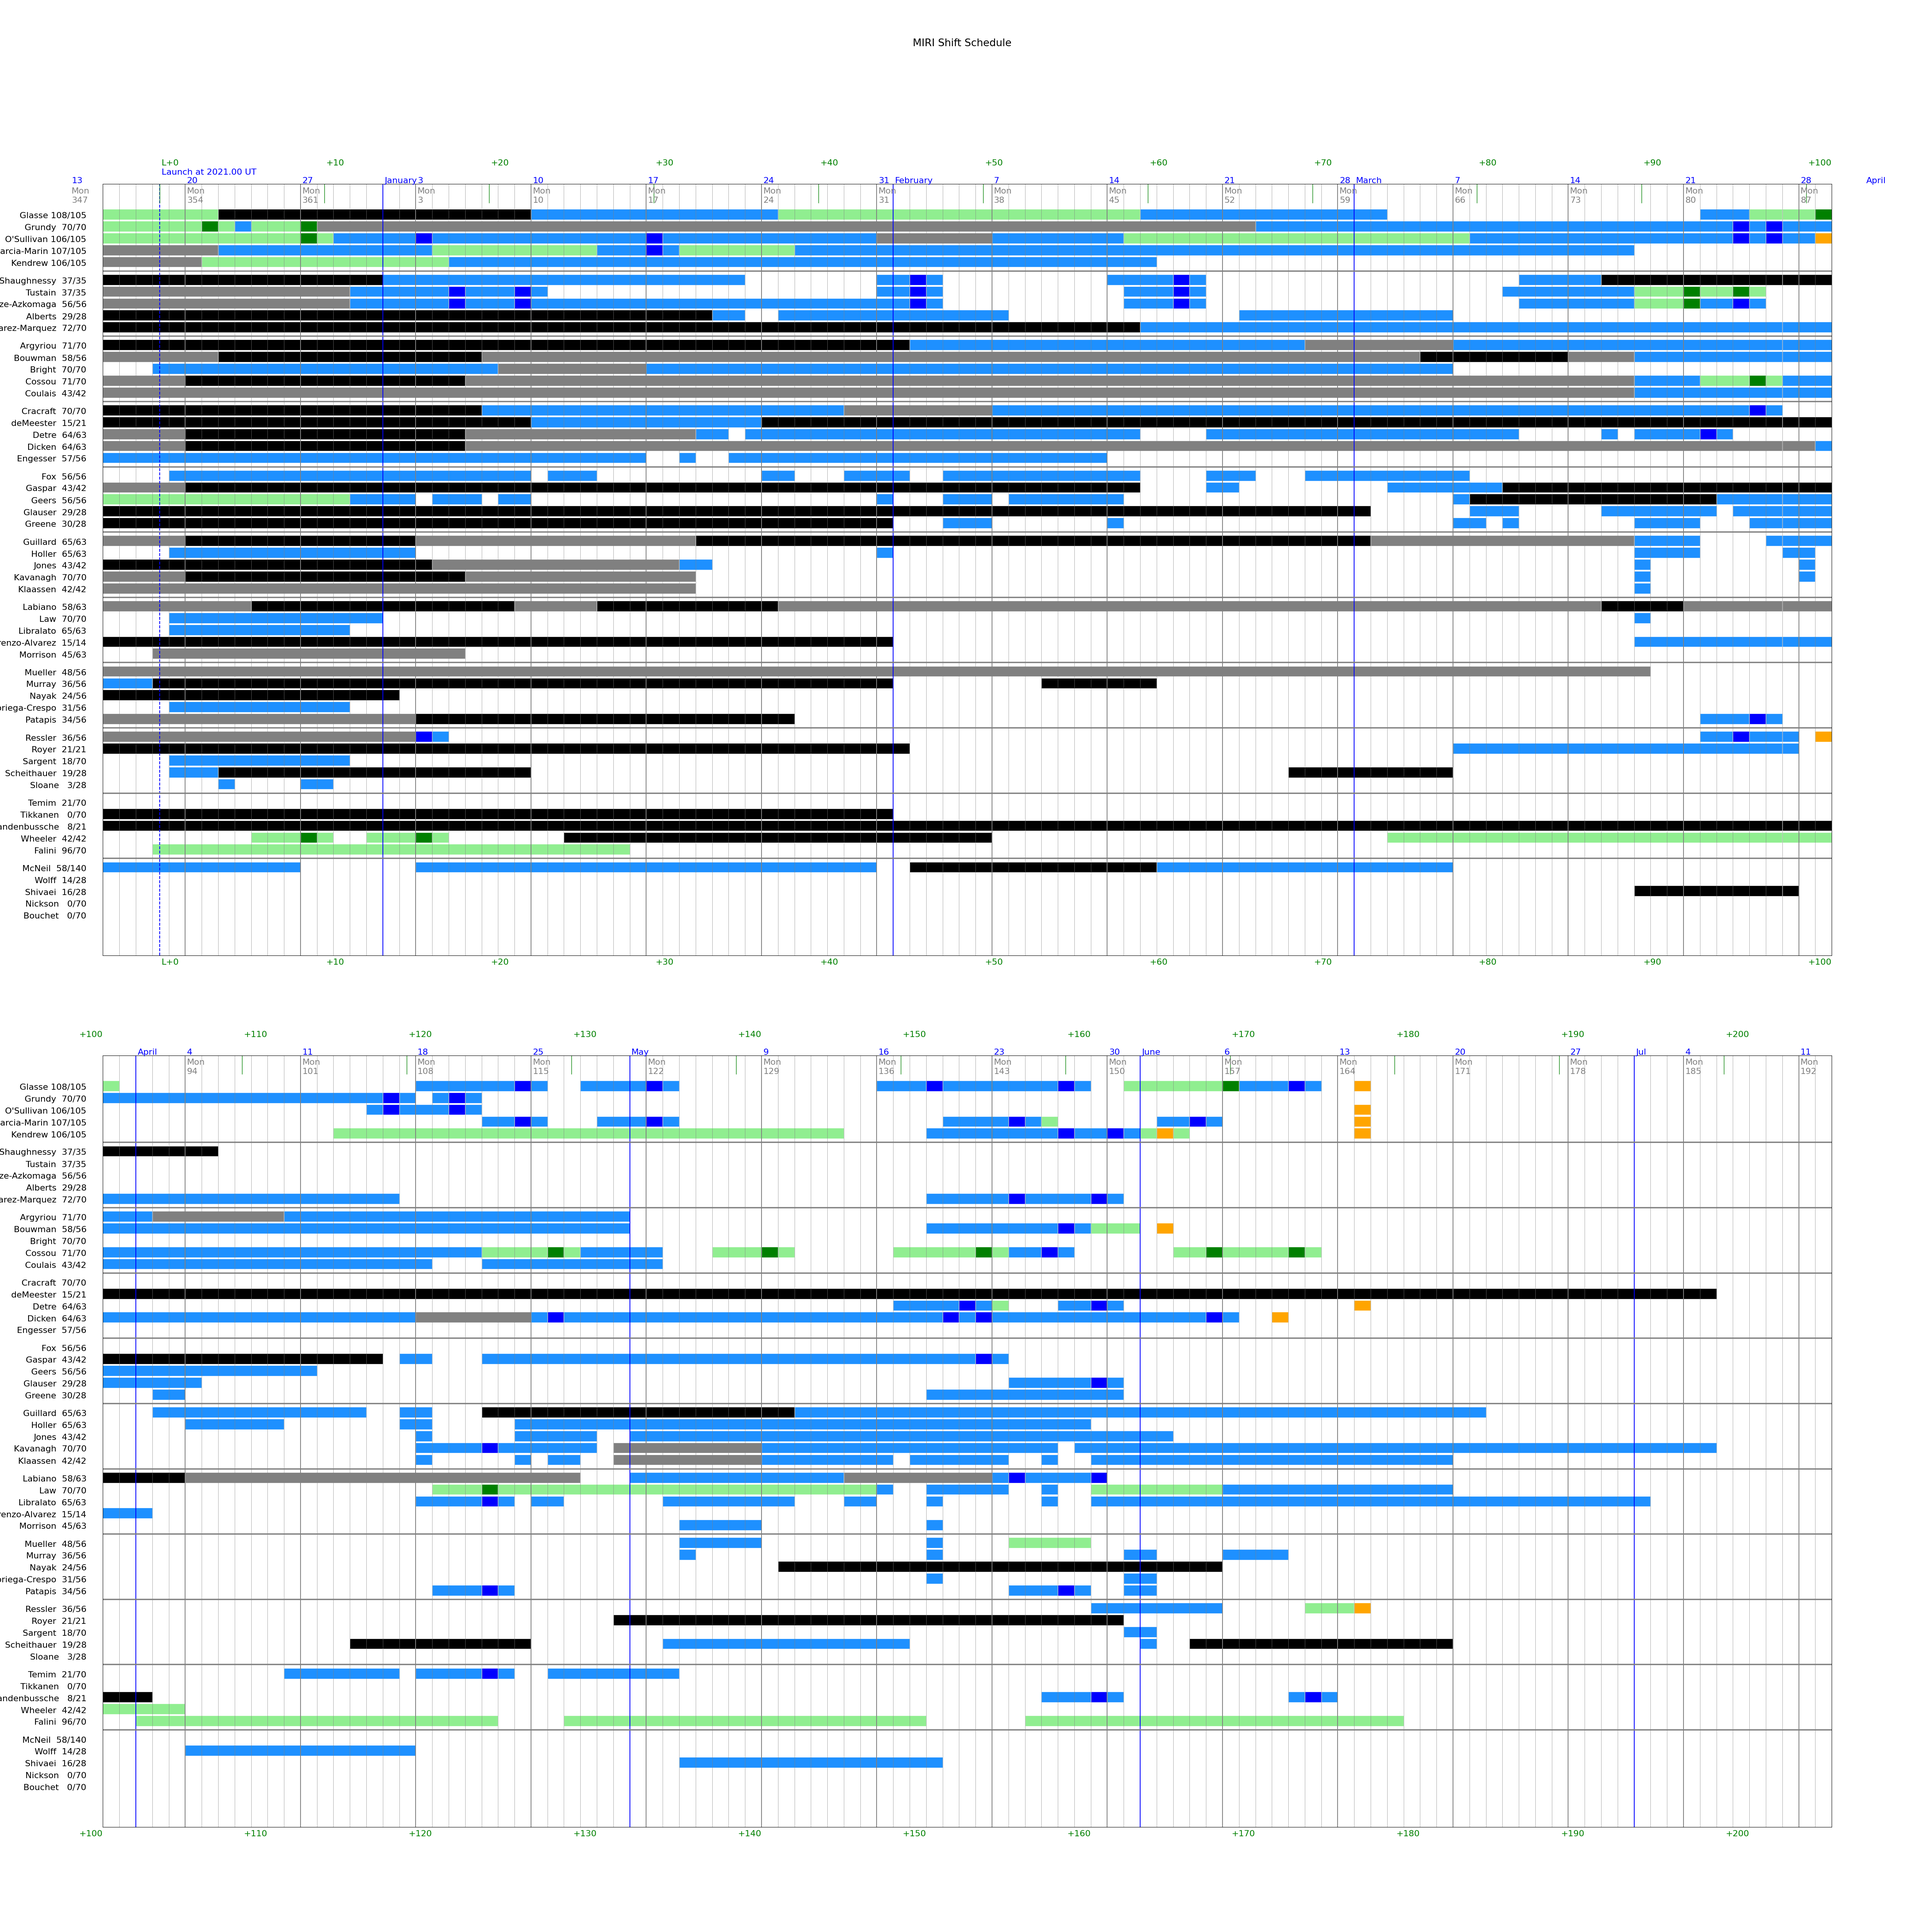
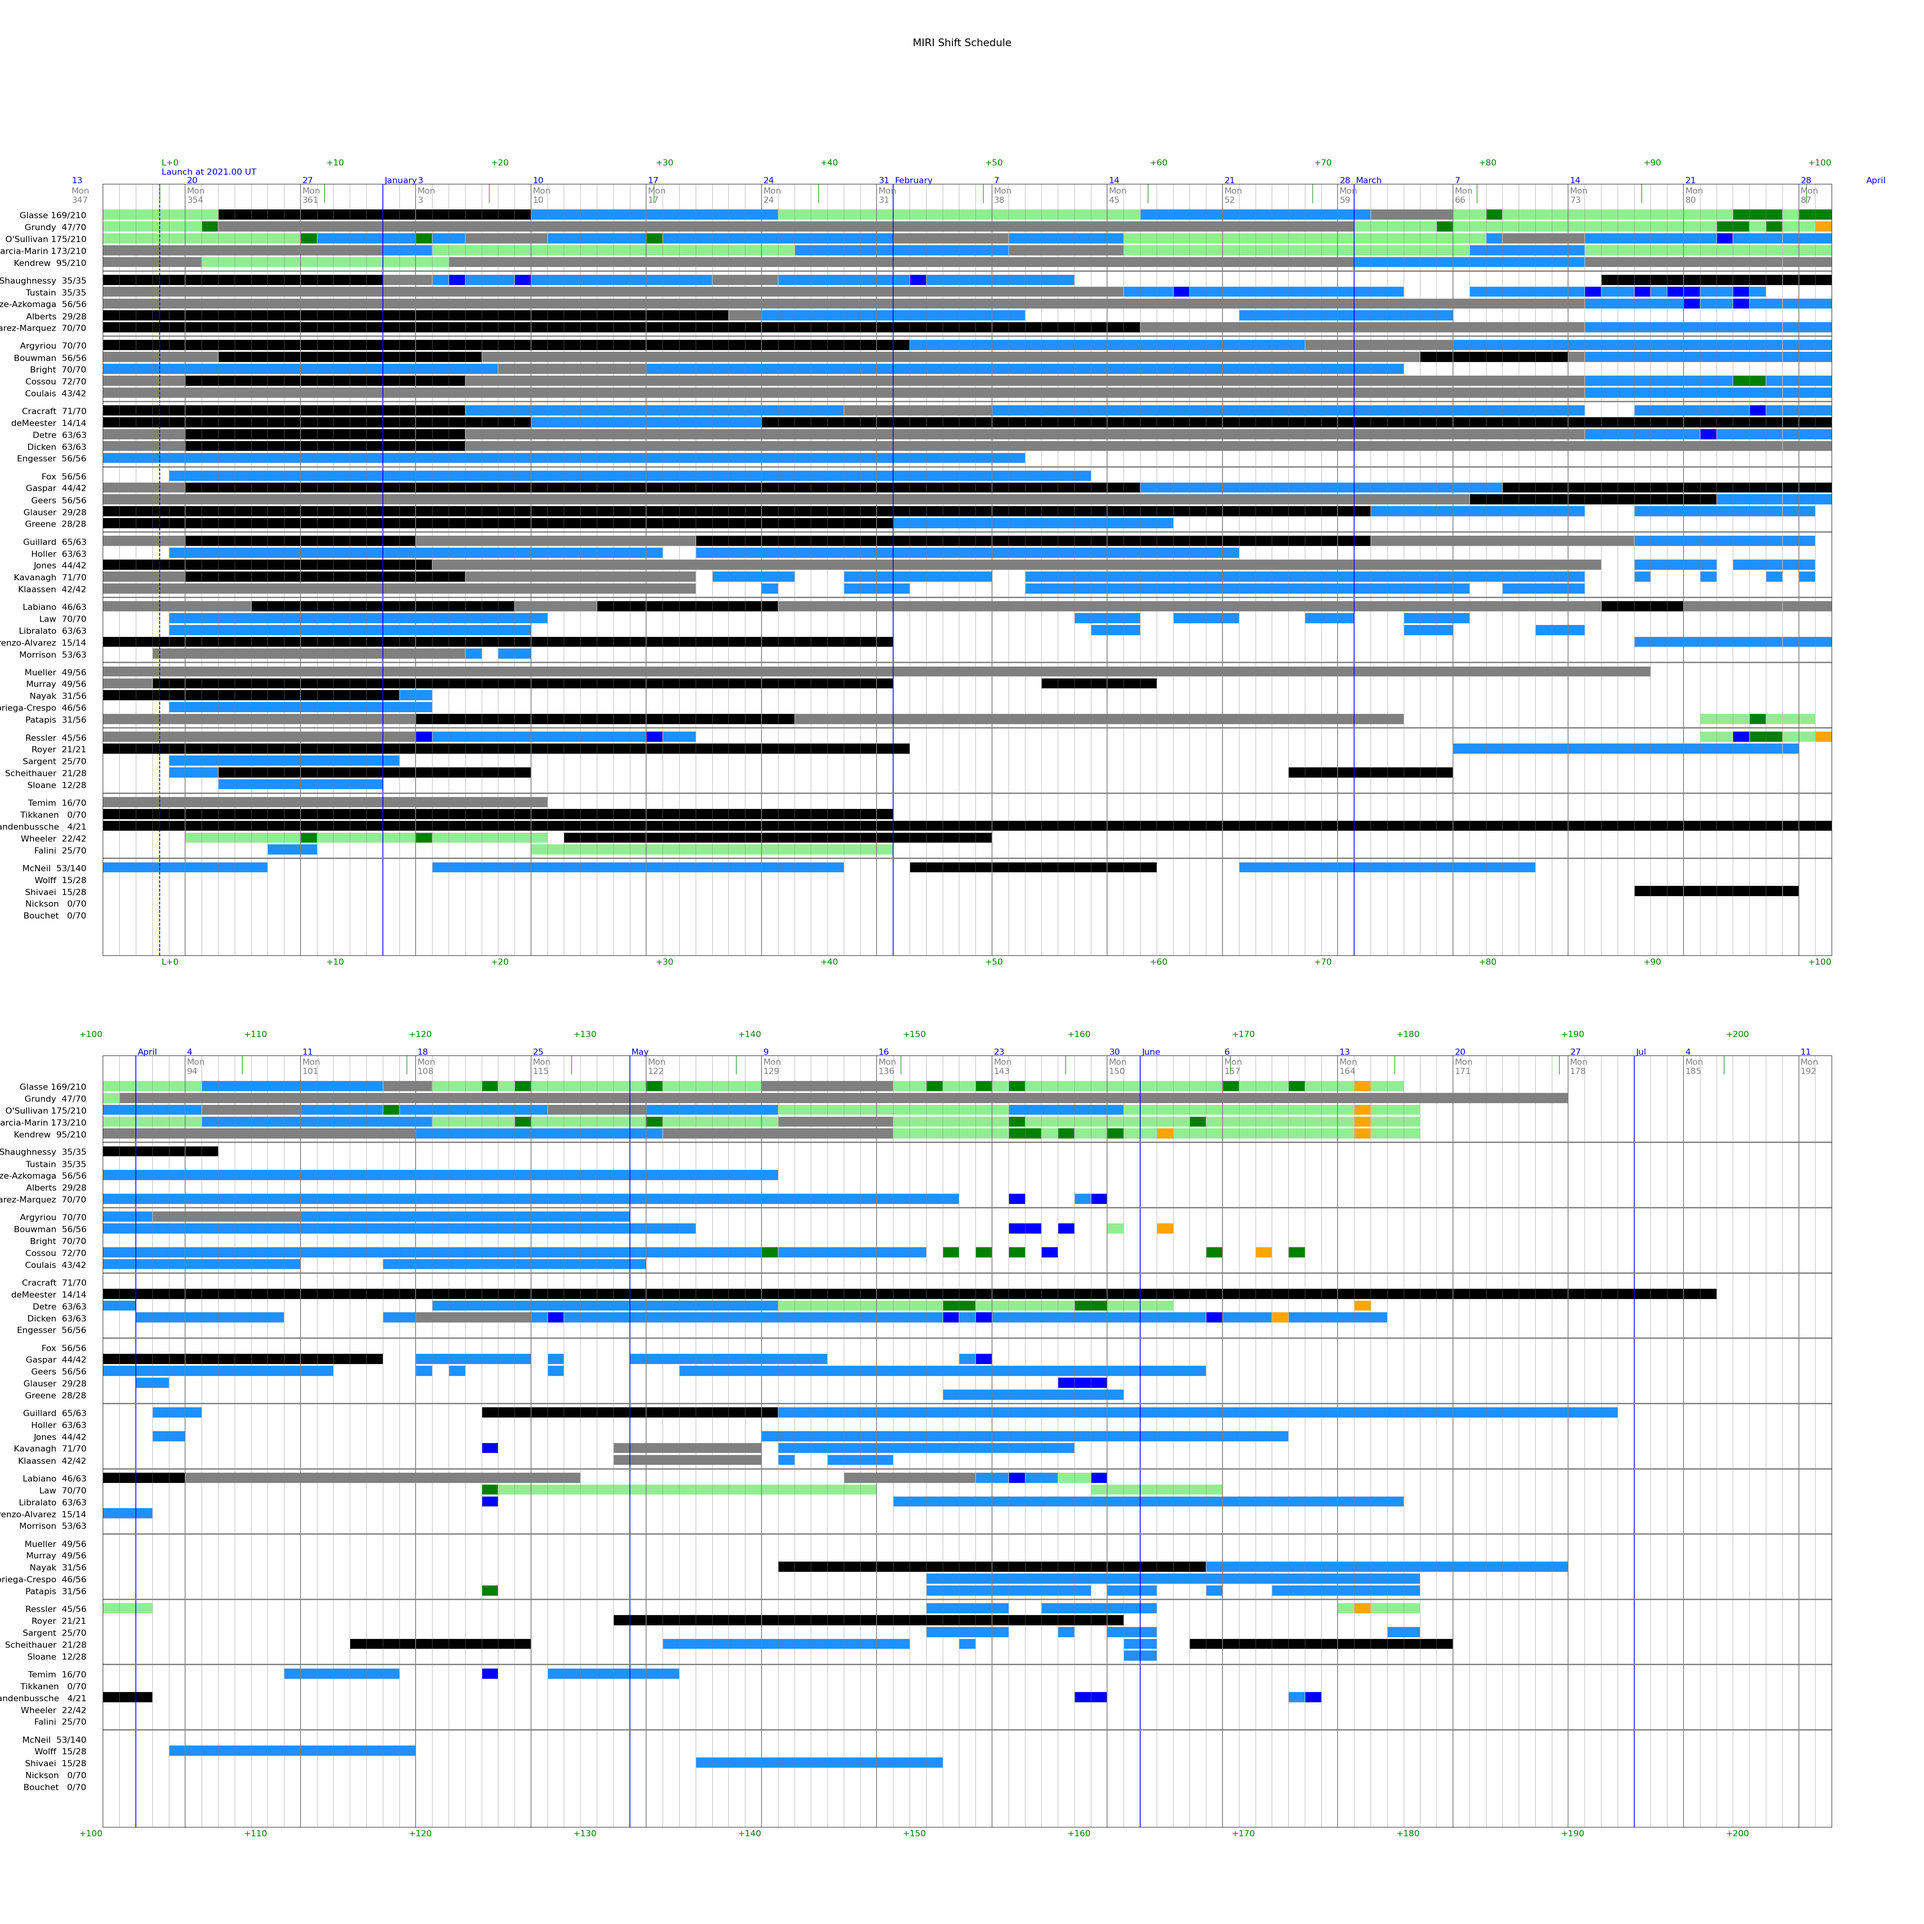
Set pre- and post- task planning days to zero, to allow global updating of schedule.  Allocated schedules for commissioing leads and set many Europeans to arrive no earlier than mid March.

diff --git a/source/person.py b/source/person.py
@@ -5,8 +5,8 @@ from shift_plan import ShiftPlan
 
 class Person:
 
-    arrival_buffer = 1      # Arrive in Baltimore at least 3 days before task
-    departure_buffer = 1    # Leave at least 1 day after
+    arrival_buffer = 0      # Arrive in Baltimore n days before task
+    departure_buffer = 0    # Leave at least n days after
     role_console = 'm'      # Supporting one of the three shifts on this day
     role_sme_console = 'M'
     role_free = '.'         # Not schedulable
@@ -109,10 +109,10 @@ class Person:
         daily_slots = ShiftPlan.daily_slot_quota
         car_day = int(task.t_start + ShiftPlan.launchhour/24.0)
         car_col = car_day - ShiftPlan.start_day
-        start_day = car_day - self.arrival_buffer
-        start_md = ShiftPlan.getLastDow(mission_day=start_day,
-                                        dows=[1, 4])            # Force start on Tuesday or Friday
-        start_col = start_md - ShiftPlan.start_day
+#        start_day = car_day - self.arrival_buffer
+#        start_md = ShiftPlan.getLastDow(mission_day=start_day,
+#                                        dows=[1, 4])            # Force start on Tuesday or Friday
+        start_col = car_col - self.arrival_buffer            # start_md - ShiftPlan.start_day
         end_col = car_col + self.departure_buffer
         if task.type == 'KDP':
             start_col, end_col = car_col, car_col
@@ -199,8 +199,6 @@ class Person:
                     if row is not None:
                         rota[row, col] = self
                         self.timetable[col] = Person.role_console
-#                        if row == 8 and col == 150:
-#                            print('Assigned {:s} to row, col = {:d},{:d}'.format(self.surname, row, col))
         return rota
 
     @staticmethod

diff --git a/source/timeliner.py b/source/timeliner.py
@@ -51,7 +51,7 @@ if dataflow:
 print("Building shift plan")
 plan = ShiftPlan()
 rota = ShiftPlan.create_rota()
-ShiftPlan.plot_staff_schedules(name='s1.png')
+#ShiftPlan.plot_staff_schedules(name='s1.png')
 #ShiftPlan.plot_rota(rota, 'r1')
 rota = ShiftPlan.allocate_prescheduled(rota)
 ShiftPlan.plot_staff_schedules(name='s2.png')
@@ -59,14 +59,14 @@ ShiftPlan.plot_rota(rota, 'r2')
 rota = ShiftPlan.allocate_tasks(rota, 'CAP')
 rota = ShiftPlan.allocate_tasks(rota, 'KDP')
 rota = ShiftPlan.allocate_tasks(rota, 'CAR')
-ShiftPlan.plot_staff_schedules(name='s3.png')
-ShiftPlan.plot_rota(rota, 'r3')
+#ShiftPlan.plot_staff_schedules(name='s3.png')
+#ShiftPlan.plot_rota(rota, 'r3')
 rota = ShiftPlan.allocate_remaining(rota)
-ShiftPlan.plot_staff_schedules(name='s4.png')
-ShiftPlan.plot_rota(rota, 'r4')
+#ShiftPlan.plot_staff_schedules(name='s4.png')
+#ShiftPlan.plot_rota(rota, 'r4')
 rota = ShiftPlan.tidy_rota(rota)
-ShiftPlan.plot_staff_schedules(name='s5.png')
-ShiftPlan.plot_rota(rota, 'r5')
+#ShiftPlan.plot_staff_schedules(name='s5.png')
+#ShiftPlan.plot_rota(rota, 'r5')
 rota = ShiftPlan.remove_singles(rota)
 ShiftPlan.test_rota(rota)
 ShiftPlan.plot_staff_schedules(name='staff_schedule.png')
